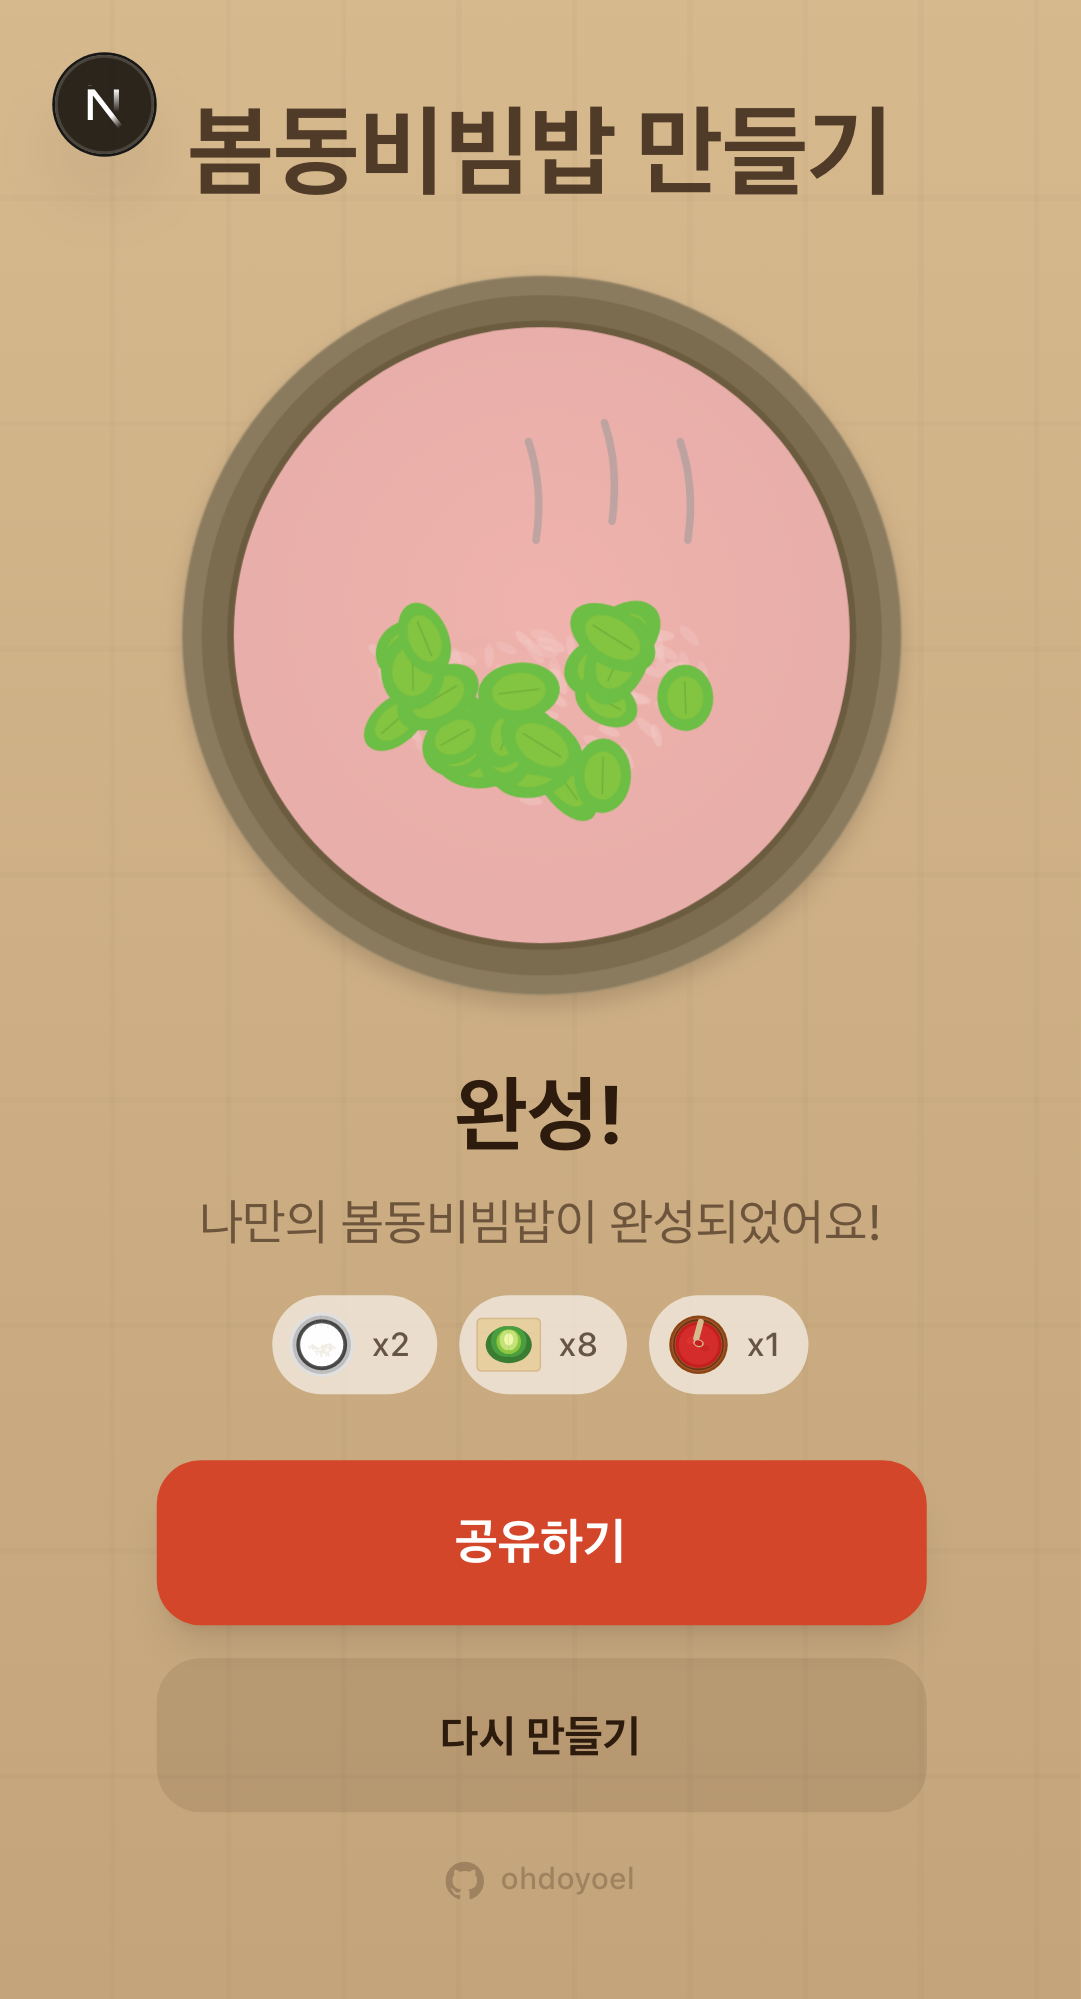
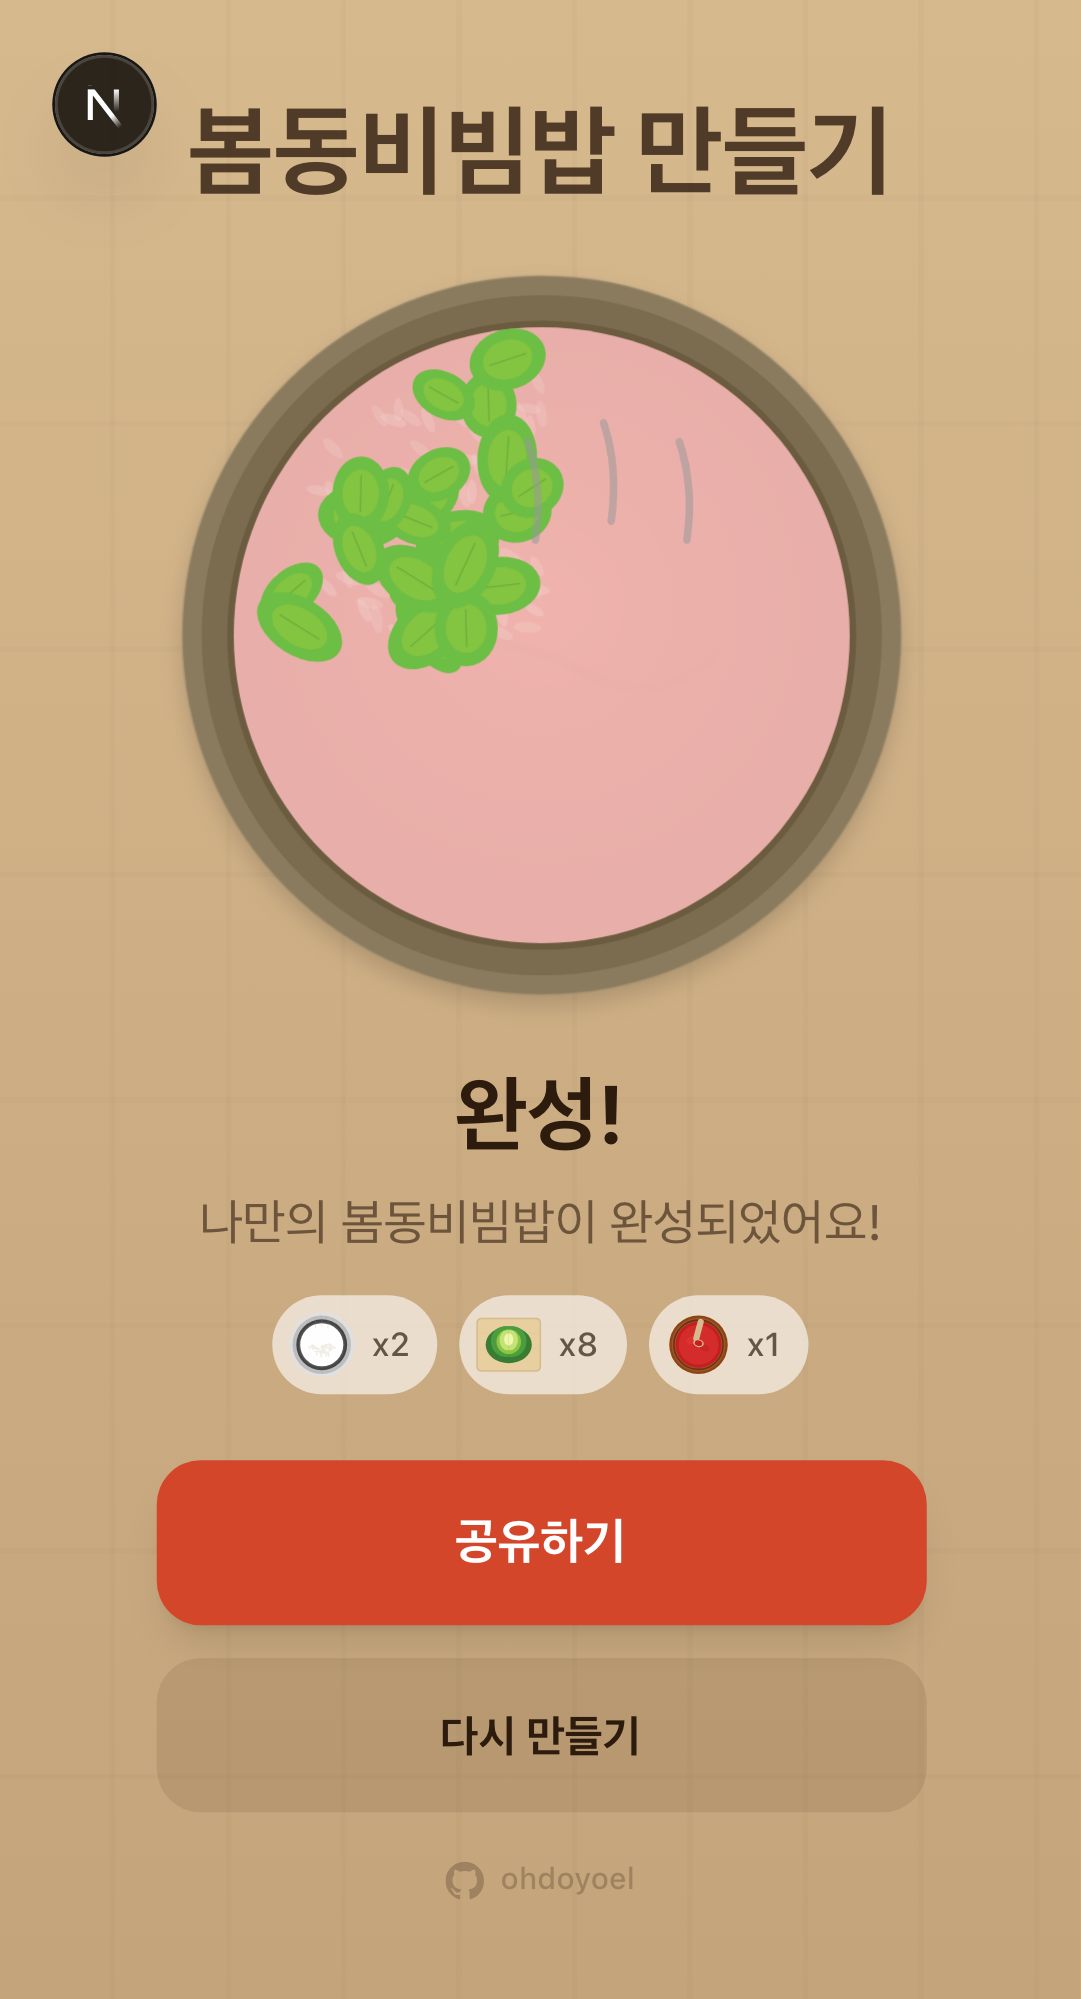
fix: 건더기 분포를 rejection sampling으로 변경
polar coordinate 기반에서 rejection sampling으로 전환하여
그릇 전체에 균일하게 분포되도록 수정

Changed region(s): [[0.2442, 0.1551, 0.6716, 0.4342]]

diff --git a/src/components/bowl.tsx b/src/components/bowl.tsx
@@ -413,11 +413,18 @@ function rand(seed: number): number {
   return h / 4294967296;
 }
 
-/** Random point inside the bowl circle (center 120, radius ~75) */
+/** Random point inside the bowl circle (center 120, radius ~88)
+ *  Uses rejection sampling: pick x,y in square, reject if outside circle */
 function randInBowl(seed: number): [number, number] {
-  const angle = rand(seed * 131 + 7) * Math.PI * 2;
-  const r = Math.sqrt(rand(seed * 137 + 13)) * 75;
-  return [120 + Math.cos(angle) * r, 120 + Math.sin(angle) * r];
+  // Try up to 5 attempts, fallback to polar
+  for (let attempt = 0; attempt < 5; attempt++) {
+    const x = (rand(seed + attempt * 9973) * 2 - 1) * 88;
+    const y = (rand(seed + attempt * 9973 + 4999) * 2 - 1) * 88;
+    if (x * x + y * y <= 88 * 88) {
+      return [120 + x, 120 + y];
+    }
+  }
+  return [120, 120];
 }
 
 function hexToRgb(hex: string): { r: number; g: number; b: number } {
